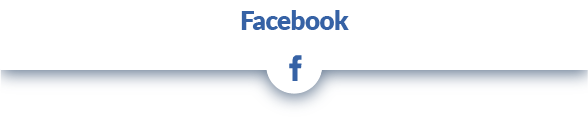
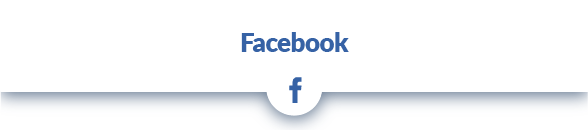
styles

Changed region(s): [[0.0, 0.45, 1.0, 0.975], [0.398, 0.075, 0.6122, 0.4]]

diff --git a/src/pages/tasas-activas/tasas-activas.ts b/src/pages/tasas-activas/tasas-activas.ts
@@ -1,7 +1,9 @@
-import { Component } from '@angular/core';
+import { Component, ViewChild, ElementRef } from '@angular/core';
 import { IonicPage, NavController, NavParams } from 'ionic-angular';
-import { TasasActivasResultPage } from '../tasas-activas-result/tasas-activas-result';
+import { Response } from '@angular/http';
 
+import { TasasActivasResultPage } from '../tasas-activas-result/tasas-activas-result';
+import { ActiveRateProvider } from '../../providers/active-rate/active-rate';
 /**
  * Generated class for the TasasActivasPage page.
  *
@@ -19,24 +21,88 @@ export class TasasActivasPage
 
     tasasActivasResultPage = TasasActivasResultPage
 
-public autocompleteTags = [];
-  public autocompleteItems = [
-    'BANCO DE LA REPÚBLICA',
-    'BANCO DE BOGOTÁ',
-    'BANCO POPULAR',
-    'BANCO CORPBANCA COLOMBIA S.A.',
-    'BANCOLOMBIA',
-    'CITIBANK COLOMBIA',
-    'BANCO GNB SUDAMERIS COLOMBIA',
-    'BBVA COLOMBIA'
-  ];
+    @ViewChild('list_options') myListRef: ElementRef;
+    @ViewChild('input_text') myInputRef: ElementRef;
+    check = true;
+    banks = [];
+    sigla:any = [];
+    _data = [];
+    
+    text_select = ""
+    
+    filteredCountriesSingle: any[] =[];
+    
+    selectedEntity_te :any  = [];
+    selectedEntity_ce :any = [];
+    
+    tipo_entidad:any[] = [];
+    cod_entidad:any[] = [];
+    countries:any[] = [];
+    public autocompleteTags = [];
   
-  
-  constructor(public navCtrl: NavController, public navParams: NavParams) {
+  constructor(public navCtrl: NavController, public navParams: NavParams, private activeRateProvider:ActiveRateProvider) {
   }
 
   ionViewDidLoad() {
     console.log('ionViewDidLoad TasasActivasPage');
   }
+    
+    
+    
+    itemSelected(data)
+    {
+        console.log("data", data)
+        this.filteredCountriesSingle = []
+        
+        this.selectedEntity_te = data.tipo_entidad
+        this.selectedEntity_ce = data.cod_entidad
+        console.log("this.selectedEntity_ce", this.selectedEntity_ce)
+        console.log("this.selectedEntity_te", this.selectedEntity_te)
+        this.text_select = data.sigla
+        //this.myInputRef.inputEL.nativeElement.value = data.razon_social
+    }
+  
+    filterCountrySingle(event) 
+    {
+        
+        let query = event.query;
+        this.activeRateProvider.getEntities().then(countries => {
+        
+            this.filteredCountriesSingle = this.filterCountry(query, countries);
+            
+        });
+        
+    }
+    
+    filterCountry(query, countries: any[]):any[] {
+        
+        let filtered : any[] = [];
+        for(let i = 0; i < countries.length; i++) {
+            let country = countries[i];
+            
+            if(country.razon_social.toLowerCase().indexOf(query.toLowerCase()) == 0) {
+                
+                filtered.push(country);
+            }
+        }
+        return filtered;
+    }
+
+    inputChanged(event) 
+    {
+        let key = event.keyCode;
+        switch(key) {
+          case 13: //Enter
+            this.autocompleteTags.push({sigla: this.sigla, banks: this.sigla});
+            event.preventDefault();
+            break;
+        }
+    }
+  
+    getInfoEntity()
+    {
+        this.navCtrl.push(TasasActivasResultPage, {te:this.selectedEntity_te, ce:this.selectedEntity_ce}) 
+        
+    }
 
 }

diff --git a/src/app/app.module.ts b/src/app/app.module.ts
@@ -12,6 +12,7 @@ import { EventosPage } from '../pages/eventos/eventos';
 import { DatosEntidadesPage } from '../pages/datos-entidades/datos-entidades';
 
 import { TasasActivasPage } from '../pages/tasas-activas/tasas-activas';
+import { TasasPasivasPage } from '../pages/tasas-pasivas/tasas-pasivas';
 import { TasasActivasResultPage } from '../pages/tasas-activas-result/tasas-activas-result';
 
 import { TabsPage } from '../pages/tabs/tabs';
@@ -44,6 +45,7 @@ import { EntitiesInfoProvider } from '../providers/entities-info/entities-info';
 import { ServiceEventsProvider } from '../providers/service-events/service-events';
 import { Screenshot } from '@ionic-native/screenshot';
 import { SocialSharing } from '@ionic-native/social-sharing';
+import { ActiveRateProvider } from '../providers/active-rate/active-rate';
 
 
 export function HttpLoaderFactory(http: HttpClient) {
@@ -93,6 +95,7 @@ export class WebpackTranslateLoader implements TranslateLoader {
     RedesPage,
     EventosPage,
     TasasActivasPage,
+    TasasPasivasPage,
     TasasActivasResultPage,
     AlertEventPage,
     DatosEntidadesPage,
@@ -124,6 +127,7 @@ export class WebpackTranslateLoader implements TranslateLoader {
     RedesPage,
     EventosPage,
     TasasActivasPage,
+    TasasPasivasPage,
     TasasActivasResultPage,
     AlertEventPage,
     DatosEntidadesPage,
@@ -140,7 +144,8 @@ export class WebpackTranslateLoader implements TranslateLoader {
     ServiceEventsProvider,
     Screenshot,
     SocialSharing,
-    TrmProvider
+    TrmProvider,
+    ActiveRateProvider
 
   ]
 })

diff --git a/src/pages/redes/redes.html b/src/pages/redes/redes.html
@@ -18,7 +18,7 @@
     <img class="header_tw" src="assets/imgs/bar_tw.png"> 
     <img class="header_fb" src="assets/imgs/bar_fb.png"> 
     
-    <ion-scroll scrollY="true" style="width: 100%; height: 56%;">
+    <ion-scroll scrollY="true" style="width: 103%; height: 56%; left: -5px;">
     <ion-grid >
         <ion-row>
             <!--Timeline Twitter -->
@@ -35,8 +35,8 @@
     
     
     
-    <ion-scroll scrollY="true" style="width: 100%; height: 50%; margin-top: 0px;">
-        <iframe src="https://www.facebook.com/plugins/page.php?href=https%3A%2F%2Fwww.facebook.com%2Fsuperintendencia.financiera&tabs=timeline&width=370&height=500&small_header=true&adapt_container_width=true&hide_cover=true&show_facepile=false&appId" width="370" height="500" style="border:none;overflow:hidden" scrolling="no" frameborder="0" allowTransparency="true"></iframe>
+    <ion-scroll scrollY="true" style="width: 100%; height: 50%; margin-top: 0px; background-color: white;">
+        <iframe src="https://www.facebook.com/plugins/page.php?href=https%3A%2F%2Fwww.facebook.com%2Fsuperintendencia.financiera&tabs=timeline&width=370&height=500&small_header=true&adapt_container_width=true&hide_cover=true&show_facepile=false&appId" width="390" height="500" style="border:none;overflow:hidden" scrolling="no" frameborder="0" allowTransparency="true"></iframe>
     </ion-scroll>
     
     

diff --git a/src/pages/entidades/entidades.html b/src/pages/entidades/entidades.html
@@ -17,8 +17,10 @@
 <ion-content padding>
     <div text-center class="titlePage">{{ 'title_entidades_page' | translate }}</div>
     
-    <p-autoComplete #input_text [(ngModel)]="country" [suggestions]="filterCountrySingle" (completeMethod)="filterCountrySingle($event)" field="name" [size]="30"
-    placeholder="{{ 'entidades_entidades_page' | translate }}" [minLength]="4">{{text_select}}</p-autoComplete>
+    <div text-center class="marginTop">
+        <p-autoComplete #input_text [(ngModel)]="country" [suggestions]="filterCountrySingle" (completeMethod)="filterCountrySingle($event)" field="name" [size]="30"
+        placeholder="{{ 'entidades_entidades_page' | translate }}" [minLength]="4">{{text_select}}</p-autoComplete>
+    </div>
     
     
     <ion-list #list_options *ngIf="filteredCountriesSingle?.length > 0" >
@@ -28,7 +30,7 @@
     
     
     
-    <div text-center  >
+    <div text-center class="marginTop">
         <button (click)="getInfoEntity()" ion-button color="succes" round>{{ 'consultar_entidades_page' | translate }}</button>
     </div>
 </ion-content>

diff --git a/src/pages/tasas-pasivas/tasas-pasivas.html b/src/pages/tasas-pasivas/tasas-pasivas.html
@@ -1,5 +1,5 @@
 <!--
-  Generated template for the TasasActivasPage page.
+  Generated template for the TasasPasivasPage page.
 
   See http://ionicframework.com/docs/components/#navigation for more info on
   Ionic pages and navigation.
@@ -15,7 +15,7 @@
 
 <ion-content no-padding>
     
-    <div text-center class="titlePage">{{ 'tasa_activa_tasas_page' | translate }}</div>
+    <div text-center class="titlePage">{{ 'tasa_pasiva_tasas_page' | translate }}</div>
     <img class="divisor" src="assets/imgs/bar.png">
     
     <div text-center class="marginTopInit">
@@ -48,10 +48,5 @@
     <div text-center class="marginTop">
         <button [navPush]="tasasActivasResultPage" ion-button color="succes" round>{{ 'consultar_entidades_page' | translate }}</button>
     </div>
-    
-    
-    
-    
-    
     
 </ion-content>

diff --git a/src/providers/active-rate/active-rate.ts b/src/providers/active-rate/active-rate.ts
@@ -1,0 +1,28 @@
+import { HttpClient } from '@angular/common/http';
+import { Injectable } from '@angular/core';
+
+/*
+  Generated class for the ActiveRateProvider provider.
+
+  See https://angular.io/guide/dependency-injection for more info on providers
+  and Angular DI.
+*/
+@Injectable()
+export class ActiveRateProvider {
+
+  constructor(public http: HttpClient) {
+    console.log('Hello ActiveRateProvider Provider');
+  }
+
+    getEntities() 
+    {
+        return new Promise<any>((resolve, reject) => {
+            this.http.get('https://www.datos.gov.co/resource/wnsa-ce2u.json')
+              .subscribe(res => {
+                resolve(res);
+              }, (err) => {
+                reject(err);
+              });
+          });
+    }
+}

diff --git a/src/pages/tasas-pasivas/tasas-pasivas.ts b/src/pages/tasas-pasivas/tasas-pasivas.ts
@@ -1,0 +1,25 @@
+import { Component } from '@angular/core';
+import { IonicPage, NavController, NavParams } from 'ionic-angular';
+
+/**
+ * Generated class for the TasasPasivasPage page.
+ *
+ * See https://ionicframework.com/docs/components/#navigation for more info on
+ * Ionic pages and navigation.
+ */
+
+@IonicPage()
+@Component({
+  selector: 'page-tasas-pasivas',
+  templateUrl: 'tasas-pasivas.html',
+})
+export class TasasPasivasPage {
+
+  constructor(public navCtrl: NavController, public navParams: NavParams) {
+  }
+
+  ionViewDidLoad() {
+    console.log('ionViewDidLoad TasasPasivasPage');
+  }
+
+}

diff --git a/src/pages/tasas/tasas.ts b/src/pages/tasas/tasas.ts
@@ -1,7 +1,7 @@
 import { Component } from '@angular/core';
 import { IonicPage, NavController, NavParams } from 'ionic-angular';
 import { TasasActivasPage } from '../tasas-activas/tasas-activas';
-
+import { TasasPasivasPage } from '../tasas-pasivas/tasas-pasivas';
 /**
  * Generated class for the TasasPage page.
  *
@@ -17,6 +17,7 @@ import { TasasActivasPage } from '../tasas-activas/tasas-activas';
 export class TasasPage 
 {
     tasasActivasPage = TasasActivasPage
+    tasasPasivasPage = TasasPasivasPage
 
   constructor(public navCtrl: NavController, public navParams: NavParams) {
   }

diff --git a/src/pages/tasas-activas-result/tasas-activas-result.html b/src/pages/tasas-activas-result/tasas-activas-result.html
@@ -15,6 +15,7 @@
 
 <ion-content no-padding>
     <div text-center class="titlePage">{{ 'tasa_activa_tasas_page' | translate }}</div>
+    <img class="divisor" src="assets/imgs/bar.png">
     <div class="bankPage"><ion-icon ios="ios-briefcase-outline" md="md-briefcase"></ion-icon> | Banco Caja Social</div>
     <div class="typePage"><ion-icon ios="ios-cash-outline" md="md-cash"></ion-icon> | Credito de consumo</div>
     <ion-grid>

diff --git a/src/pages/tasas/tasas.scss b/src/pages/tasas/tasas.scss
@@ -8,7 +8,7 @@ page-tasas {
     }
     
     div.contained {
-        height: 45vh;
+        height: 40vh;
         
     }
     div.contained:first-child {
@@ -17,5 +17,16 @@ page-tasas {
     
     .tasas-btn{
         padding-top: 30%;
+    }
+    
+    .divisor{
+        margin-top: -31px;
+        position: absolute;
+    }
+    
+    .line {
+      border: 0;
+      background-color: #000;
+      height: 3px;
     }
 }

diff --git a/src/pages/redes/redes.scss b/src/pages/redes/redes.scss
@@ -1,7 +1,7 @@
 page-redes {
     
     div.contained {
-        height: 70vh;
+        height: 40vh;
         
     }
     div.contained:first-child {
@@ -17,7 +17,13 @@ page-redes {
     .header_fb{
         position: absolute;
         z-index: 3;
-        top: 322px;
+        top: 330px;
+    }
+    
+    .twitter-timeline{
+        width: 103%;
+        height: 56%;
+        left: -5px;
     }
     
 }

diff --git a/src/pages/tasas/tasas.html b/src/pages/tasas/tasas.html
@@ -20,8 +20,10 @@
         
     </div>
     
+    <img class="divisor" src="assets/imgs/bar.png"> 
+    
     <div class="contained"> 
-        <div text-center class="titlebtn tasas-btn">{{ 'tasa_pasiva_tasas_page' | translate }}</div>
+        <div [navPush]="tasasPasivasPage" text-center class="titlebtn tasas-btn">{{ 'tasa_pasiva_tasas_page' | translate }}</div>
     </div>
     
     
